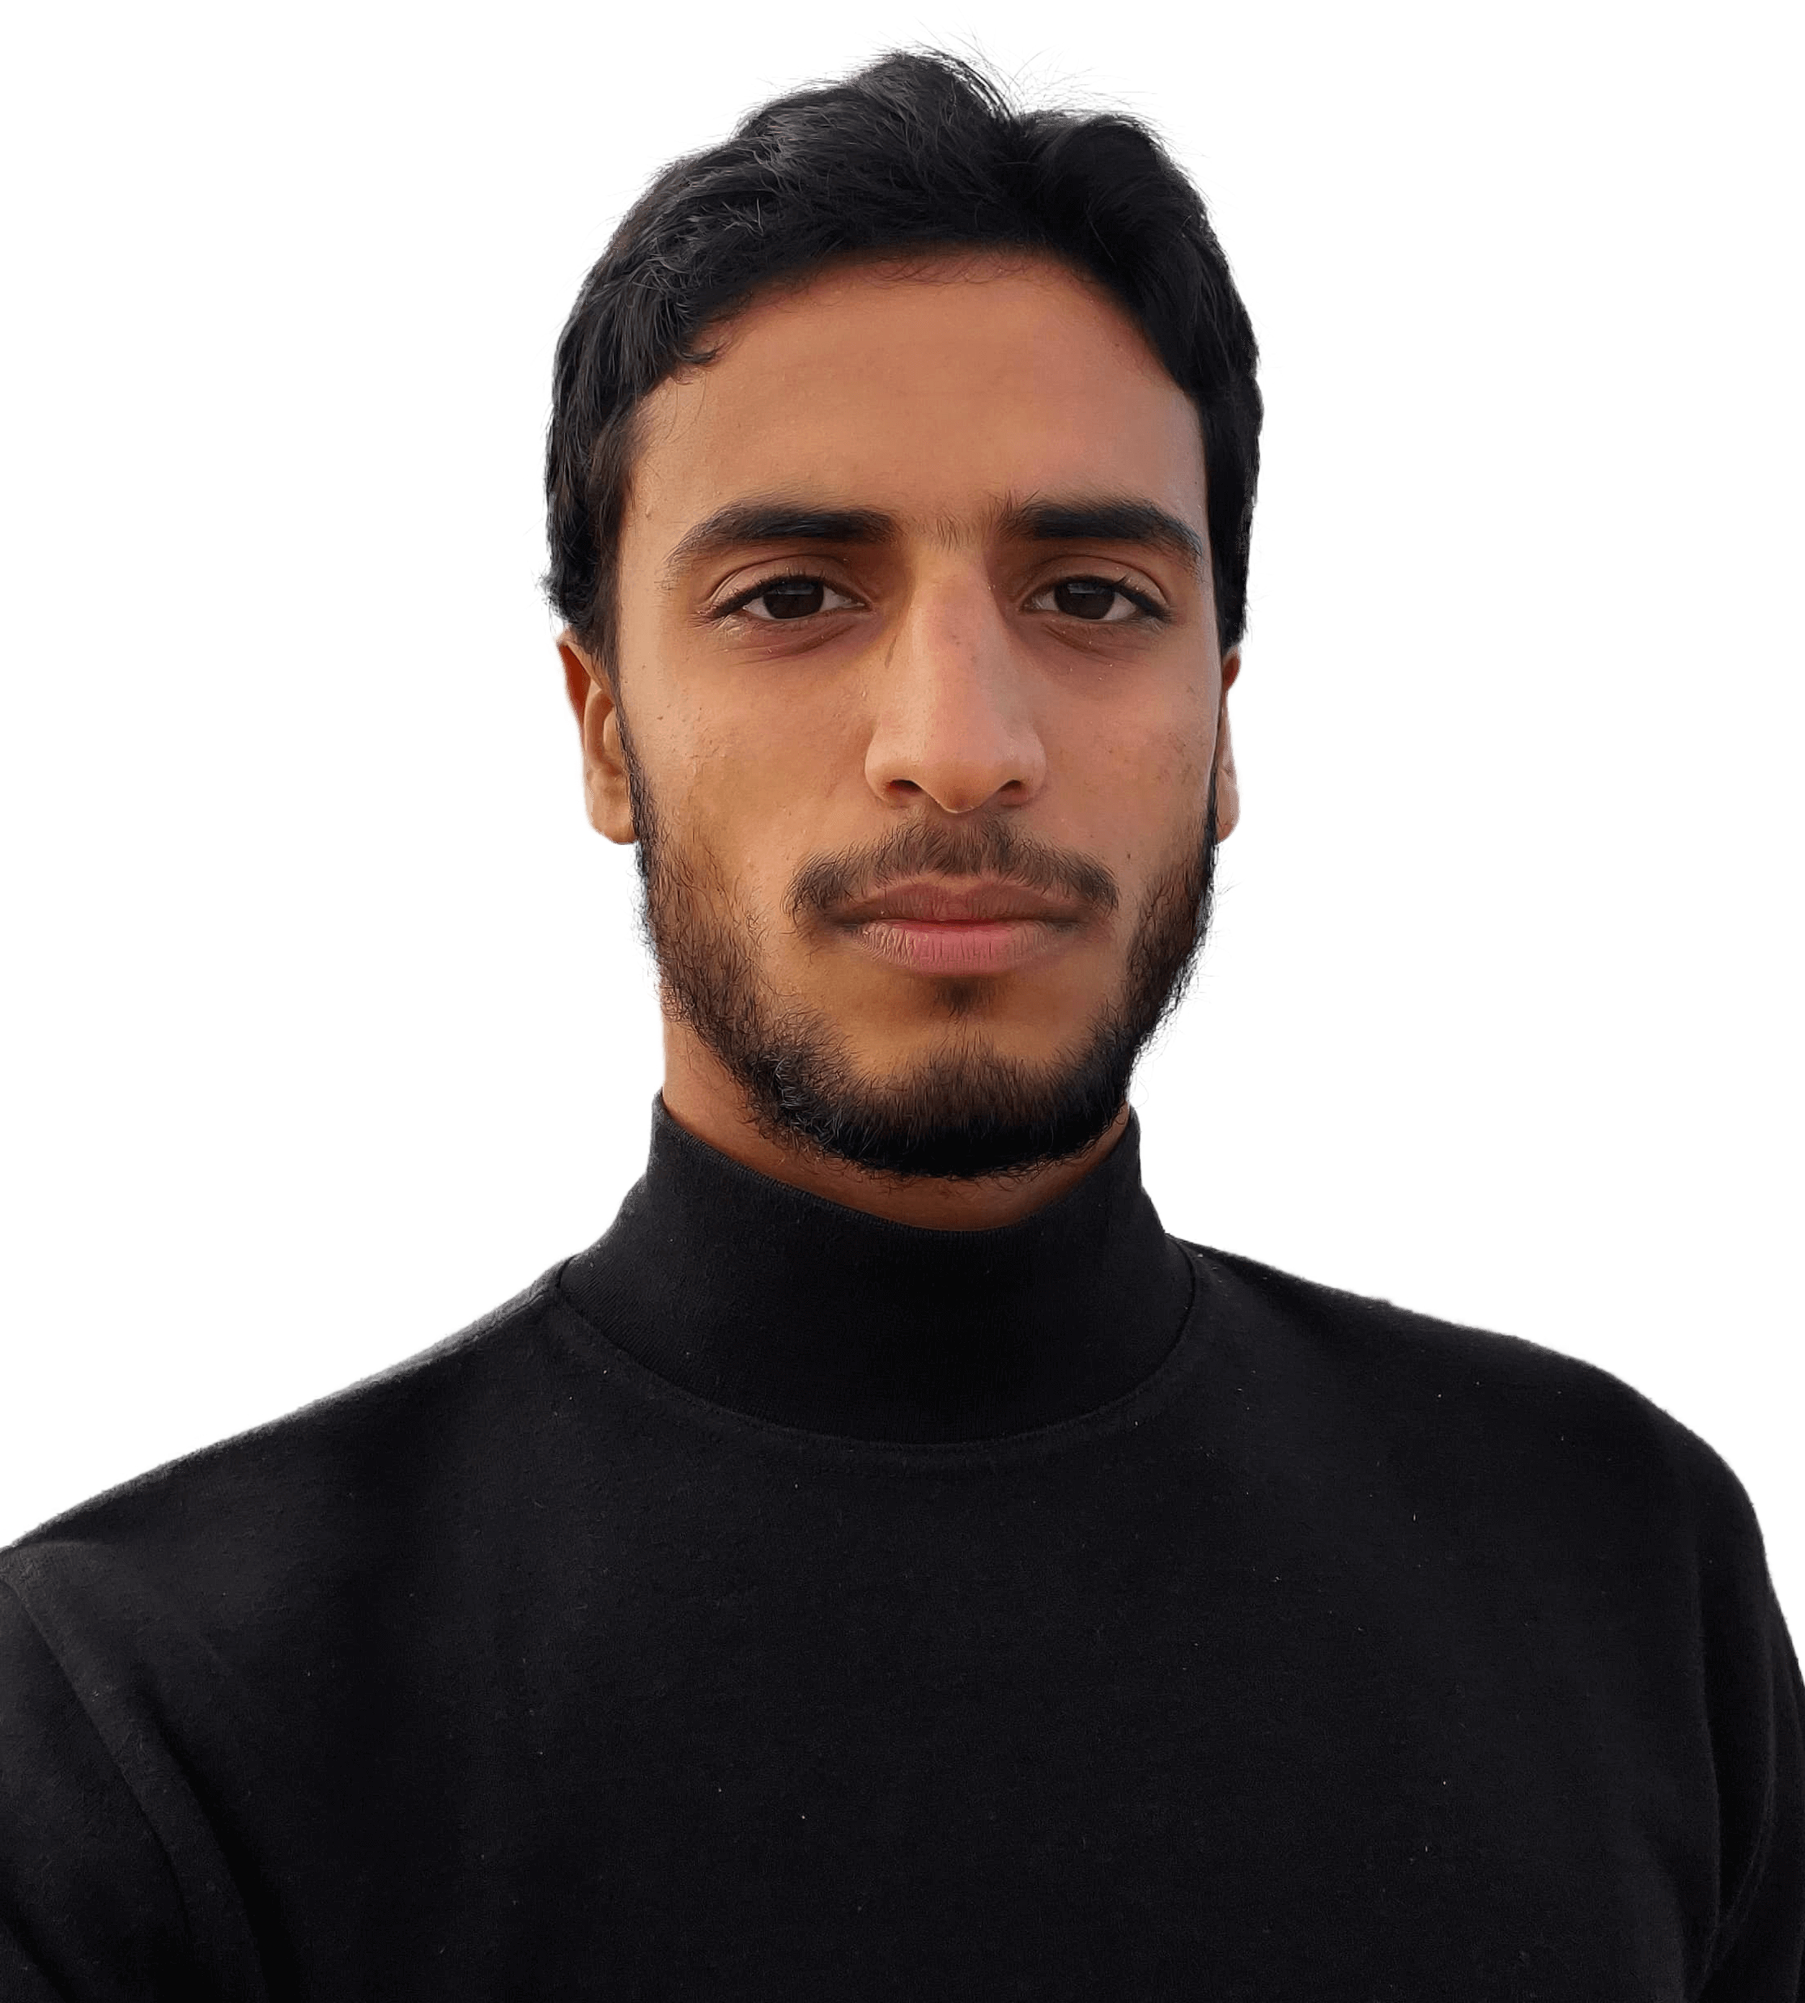
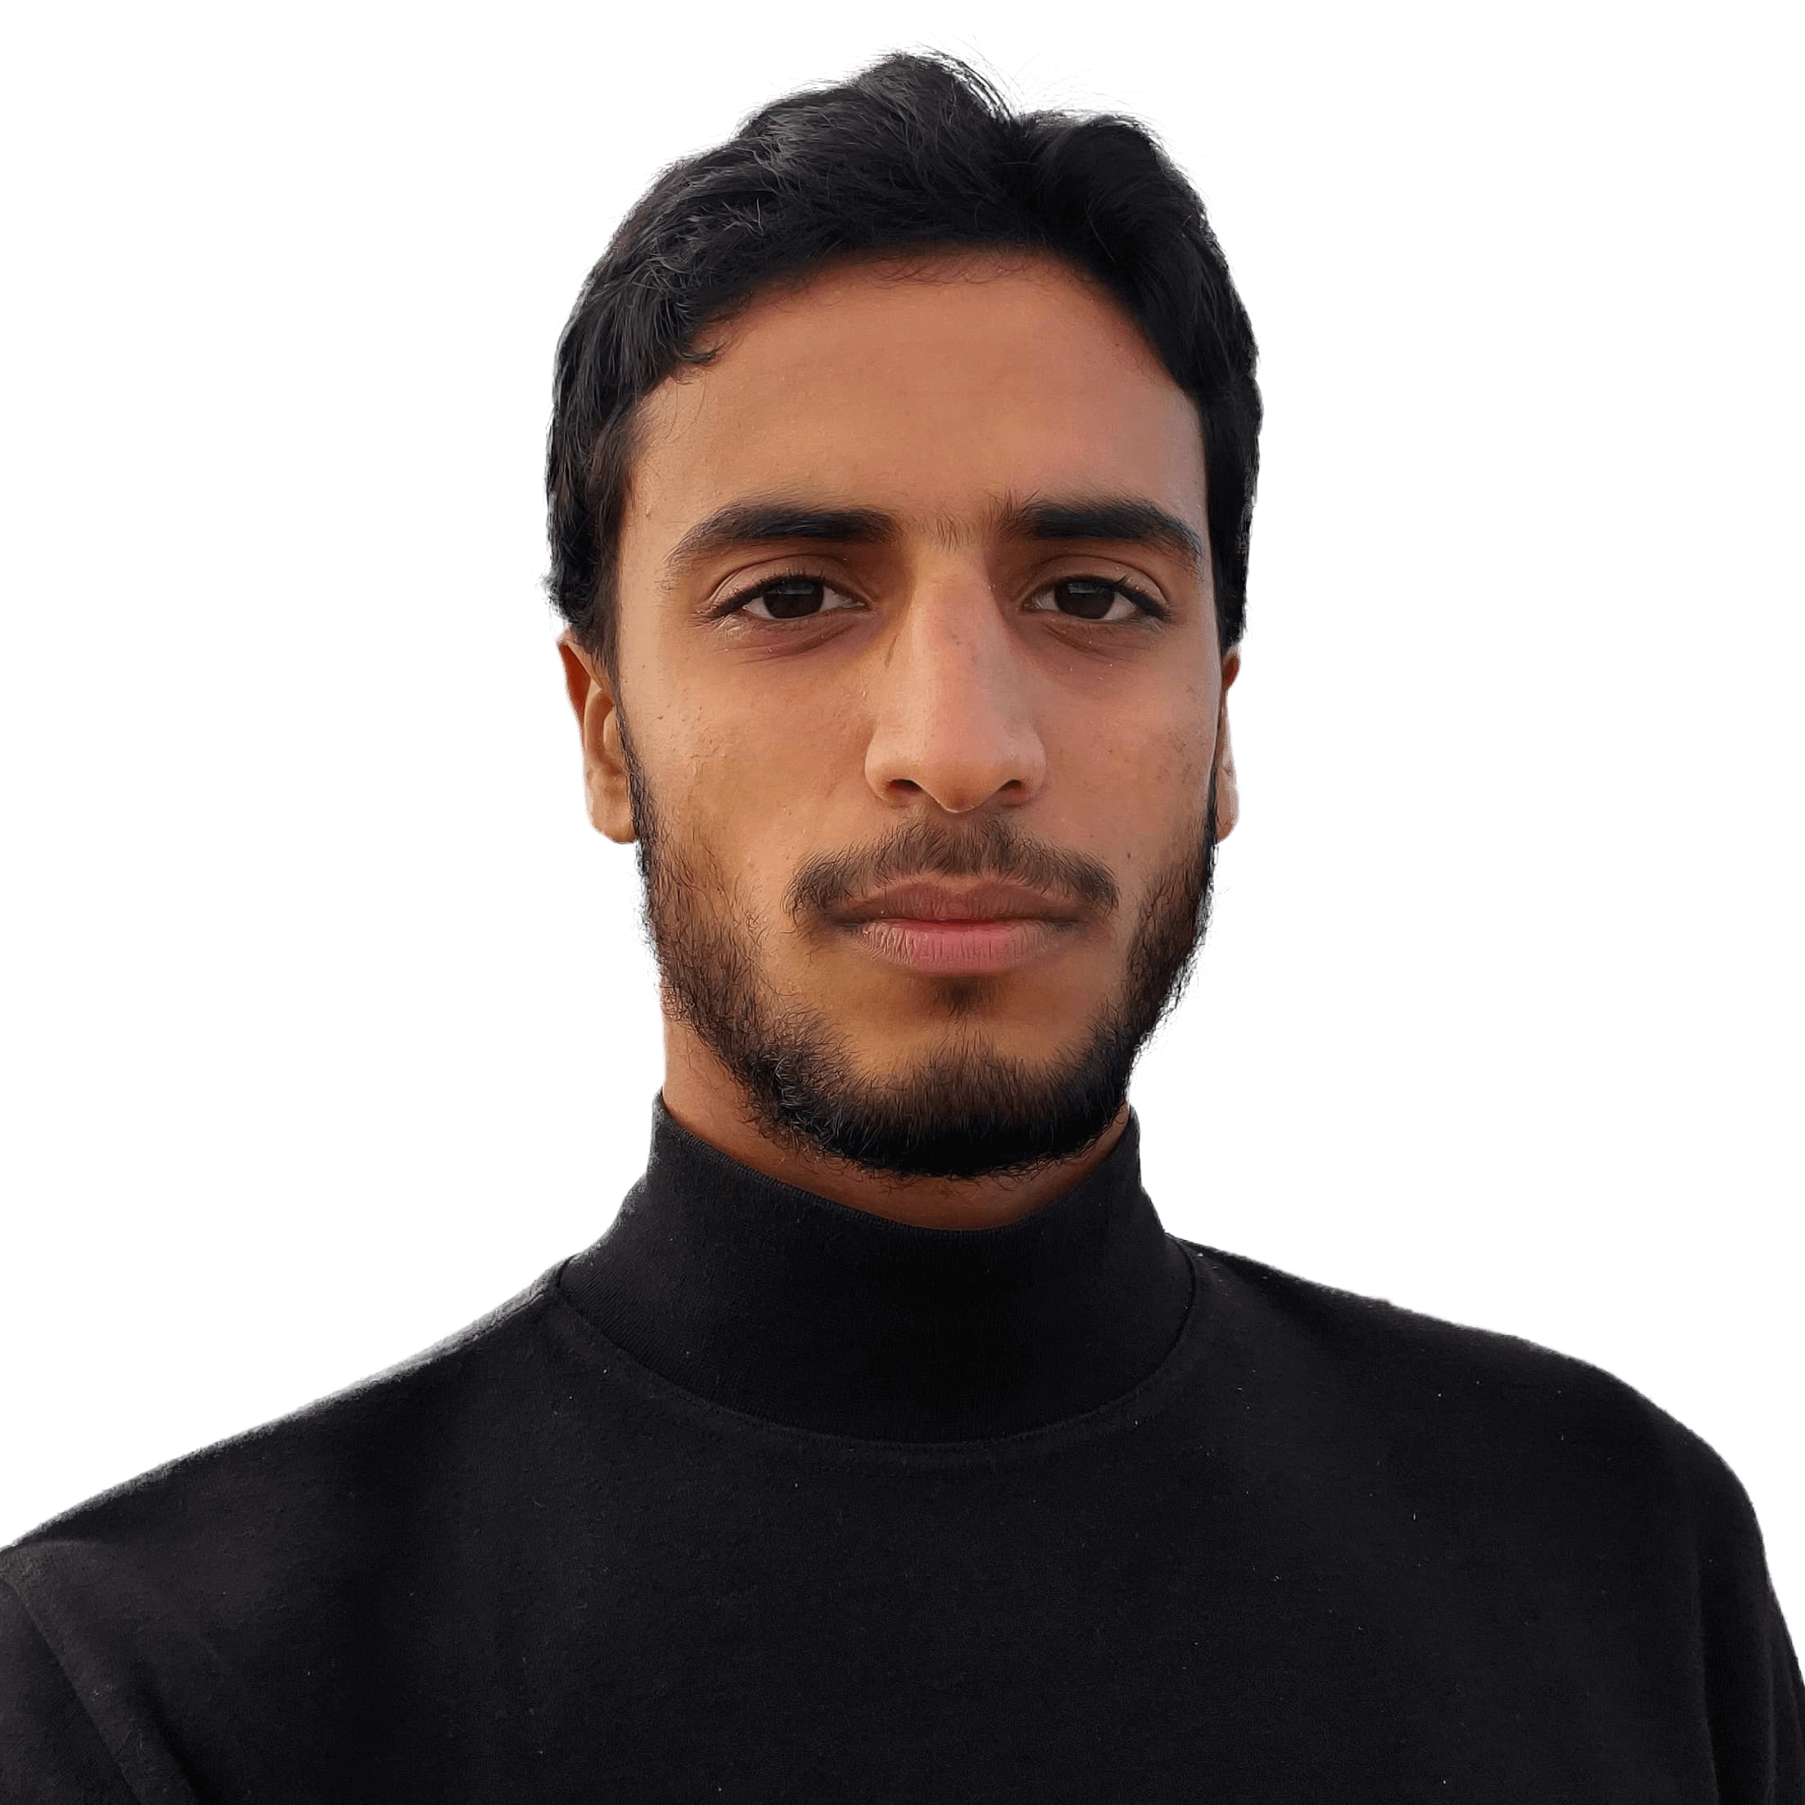
add animation to hero image

Changed region(s): [[0.0, 0.0, 1.0, 1.0], [0.0938, 0.8438, 0.1562, 0.9062]]

diff --git a/src/components/Hero.tsx b/src/components/Hero.tsx
@@ -2,9 +2,9 @@ import { ButtonPrimary, ButtonOutline } from "./Button";
 
 function Hero() {
     return (
-        <section id="home" className="pt-24 lg:pt-28 text-left">
-            <div className="container lg:grid lg:grid-cols-2 items-center lg:gap-10">
-                <div>
+        <section id="home" className="pt-24 lg:pt-36 text-left">
+            <div className="container grid grid-row-2 gap-8 lg:grid lg:grid-cols-2 items-center lg:gap-10">
+                <div className="order-1 lg:order-1">
                     <div className="flex items-center gap-3">
                         <figure className="img-box w-9 h-9 rounded-full">
                             <img
@@ -39,13 +39,13 @@ function Hero() {
                         />
                     </div>
                 </div>
-                <div className="hidden lg:block">
-                    <figure className="w-full max-w-[480px] ml-auto bg-gradient-to-t from-sky-400 via-25% via-sky-400/40 to-65% rounded-[60px] overflow-hidden">
+                <div className="lg:order-2 mx-4">
+                    <figure className="w-full max-w-[200px] sm:max-w-[300px] lg:max-w-[400px] mx-auto lg:ml-auto">
                         <img
-                            width={552}
-                            height={736}
-                            className="w-full"
-                            src="/images/my-picture.png"
+                            width={700}
+                            height={700}
+                            className="w-full ring-8 ring-cyan-600 bg-gray-800/70 hero_image"
+                            src="./images/my-picture.png"
                             alt=""
                         />
                     </figure>

diff --git a/src/Animation.css b/src/Animation.css
@@ -1,0 +1,15 @@
+.hero_image {
+    animation: profile_animate 6s ease-in-out infinite 1s;
+}
+
+@keyframes profile_animate {
+    0% {
+        border-radius: 60% 40% 30% 70%/60% 30% 70% 40%;
+    }
+    50% {
+        border-radius: 30% 60% 70% 40%/50% 60% 30% 60%;
+    }
+    100% {
+        border-radius: 60% 40% 30% 70%/60% 30% 70% 40%;
+    }
+}

diff --git a/src/main.tsx b/src/main.tsx
@@ -4,6 +4,7 @@ import './index.css'
 import App from './App.tsx'
 
 import './index.css'
+import './Animation.css'
 import 'lenis/dist/lenis.css'
 
 createRoot(document.getElementById('root')!).render(
